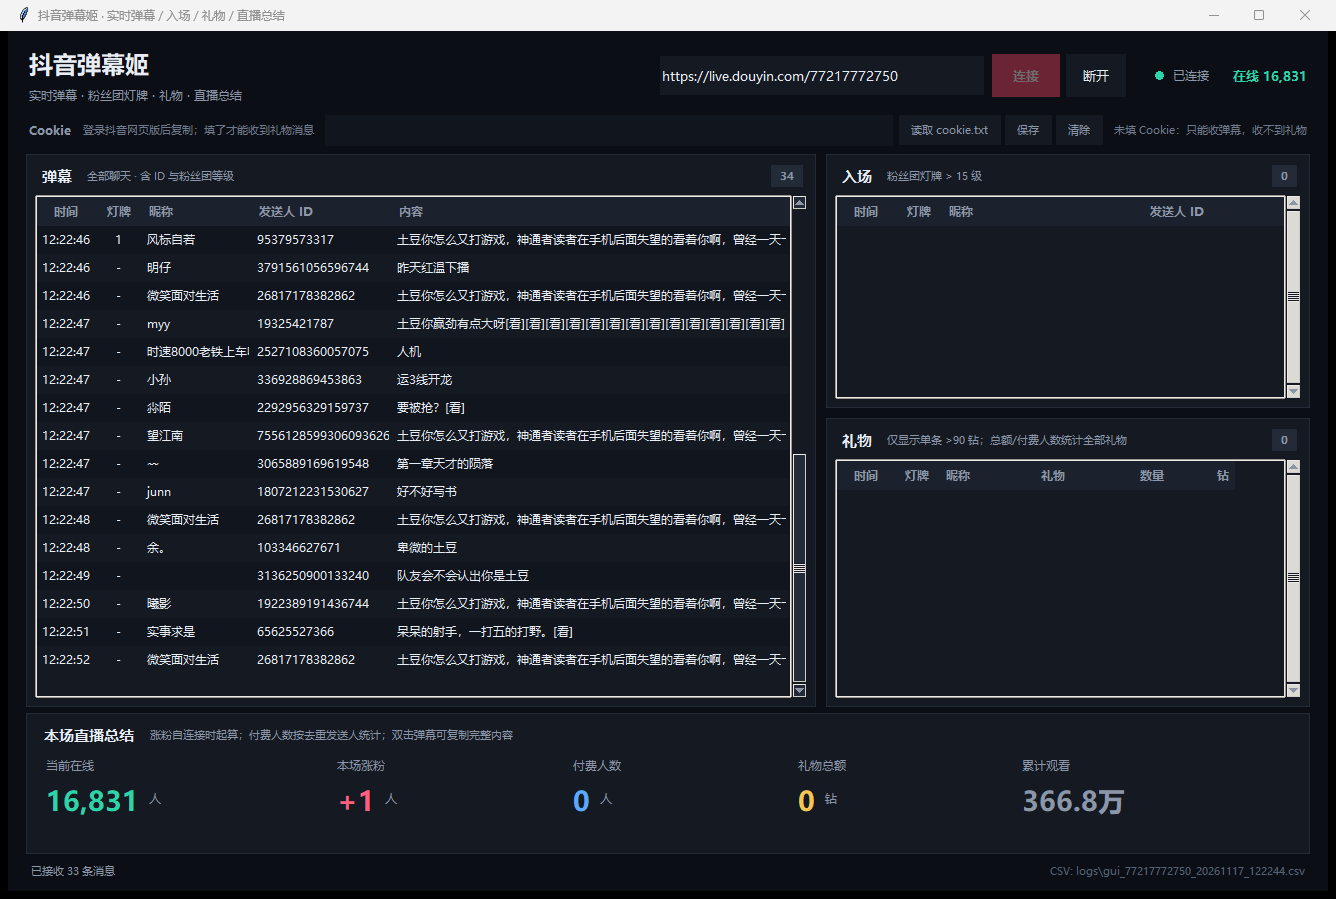
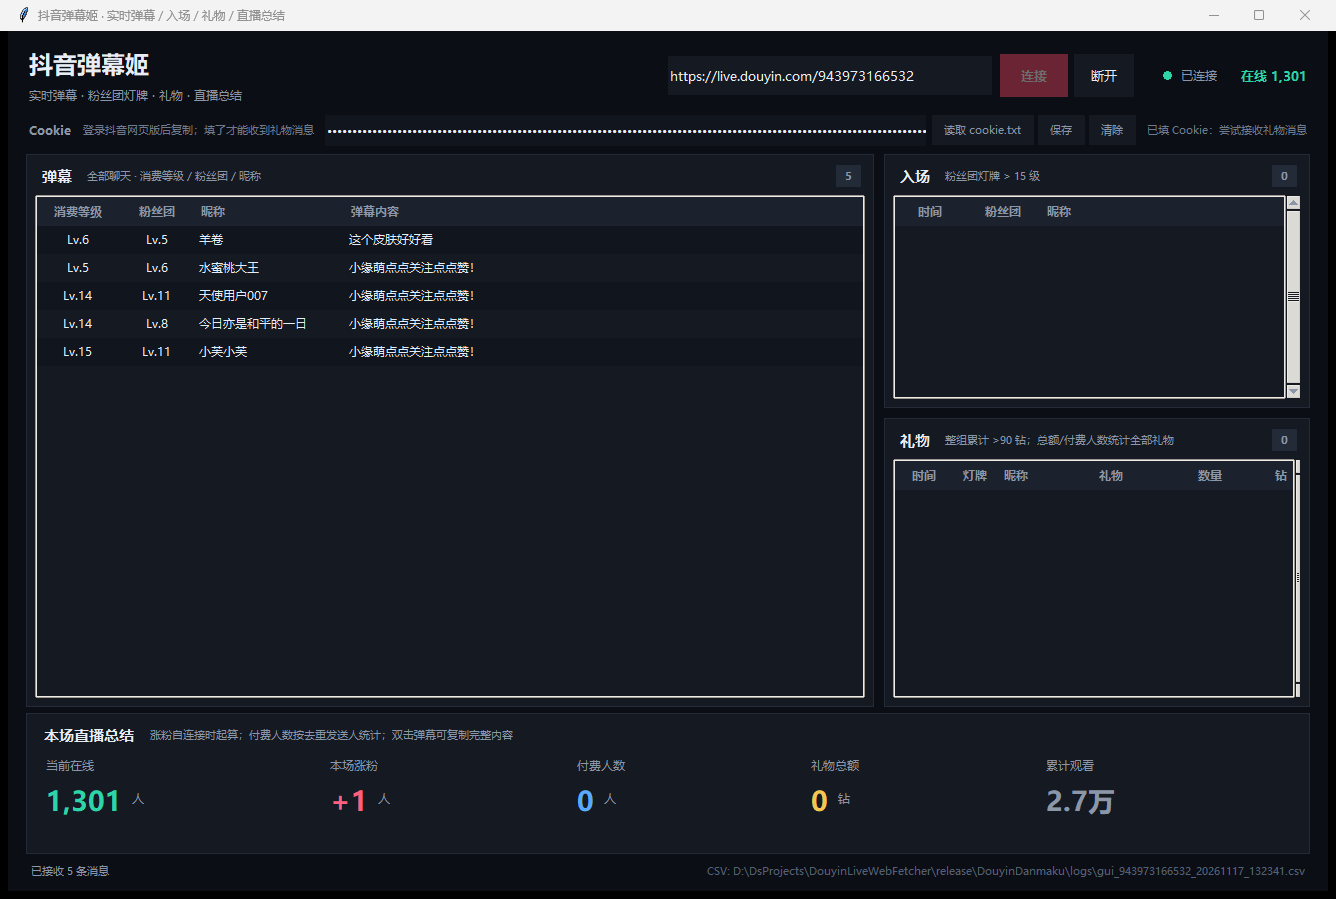
Aggregate combo gifts and match Douyin chat columns

diff --git a/danmaku_gui.py b/danmaku_gui.py
@@ -3,7 +3,7 @@
 """抖音直播弹幕姬（Tkinter 桌面窗口）。
 
 四个分区：
-1. 弹幕：全部聊天，含发送人 ID、粉丝团灯牌等级；
+1. 弹幕：全部聊天，含消费等级、粉丝团灯牌等级、昵称、内容；
 2. 入场：只看粉丝团灯牌 > 15 级的进场；
 3. 礼物：只显示单条总价值 > 90 钻（9 元）的礼物；
 4. 直播总结：当前在线、本场涨粉、付费人数、礼物总额、累计观看。
@@ -89,6 +89,8 @@ class DanmakuClient(DouyinLiveWebFetcher):
         self._stop = threading.Event()
         self._seen: set[tuple[str, str]] = set()
         self._gift_repeat: dict[int, int] = {}
+        self._gift_group_total: dict[int, int] = {}
+        self._gift_group_emitted: dict[int, int] = {}
         self._followers: int | None = None
         self._follow_base: int | None = None
         self._online = 0
@@ -146,6 +148,7 @@ class DanmakuClient(DouyinLiveWebFetcher):
                 "user_id",
                 "nickname",
                 "fans_club_level",
+                "pay_level",
                 "content",
                 "gift_name",
                 "gift_count",
@@ -195,6 +198,7 @@ class DanmakuClient(DouyinLiveWebFetcher):
                     data.get("user_id", ""),
                     data.get("nickname", ""),
                     data.get("fans_club_level", ""),
+                    data.get("pay_level", ""),
                     data.get("content", ""),
                     data.get("gift_name", ""),
                     data.get("gift_count", ""),
@@ -298,6 +302,7 @@ class DanmakuClient(DouyinLiveWebFetcher):
             return
         club = user.fans_club.data if user.fans_club else None
         level = int(club.level or 0) if club else 0
+        pay_level = int(user.pay_grade.level or 0) if user.pay_grade else 0
         content = (message.content or "").replace("\n", " ").strip()
         if not content:
             return
@@ -307,6 +312,7 @@ class DanmakuClient(DouyinLiveWebFetcher):
             user_id=str(user.id),
             nickname=user.nick_name,
             fans_club_level=level,
+            pay_level=pay_level,
             content=content,
         )
         self._emit("chat", **data)
@@ -323,12 +329,14 @@ class DanmakuClient(DouyinLiveWebFetcher):
             return
         club = user.fans_club.data if user.fans_club else None
         level = int(club.level or 0) if club else 0
+        pay_level = int(user.pay_grade.level or 0) if user.pay_grade else 0
         content = (message.default_content or "[表情]").replace("\n", " ").strip()
         data = dict(
             msg_id=msg_id,
             user_id=str(user.id),
             nickname=user.nick_name,
             fans_club_level=level,
+            pay_level=pay_level,
             content=content,
         )
         self._msg_count += 1
@@ -343,6 +351,7 @@ class DanmakuClient(DouyinLiveWebFetcher):
             return
         club = user.fans_club.data if user.fans_club else None
         level = int(club.level or 0) if club else 0
+        pay_level = int(user.pay_grade.level or 0) if user.pay_grade else 0
         # 第二个分区只关心 >15 级粉丝团灯牌
         if level <= 15:
             return
@@ -354,6 +363,7 @@ class DanmakuClient(DouyinLiveWebFetcher):
             user_id=str(user.id),
             nickname=user.nick_name,
             fans_club_level=level,
+            pay_level=pay_level,
             content="进入直播间",
         )
         self._emit("entry", **data)
@@ -429,32 +439,49 @@ class DanmakuClient(DouyinLiveWebFetcher):
         if not self._once("gift", msg_id):
             return
         count = self._gift_delta(message)
-        if count <= 0:
+        group_total = (
+            self._gift_group_total.get(group, 0) + count if group else count
+        )
+        if group:
+            self._gift_group_total[group] = group_total
+        if count <= 0 and group_total <= 0:
             return
 
         club = user.fans_club.data if user.fans_club else None
         level = int(club.level or 0) if club else 0
+        pay_level = int(user.pay_grade.level or 0) if user.pay_grade else 0
         diamonds = unit * count
+        total_diamonds = unit * group_total
         uid = str(user.id)
-        self._payers.add(uid)
-        if level > 0:
-            self._fan_payers.add(uid)
+        if count > 0:
+            self._payers.add(uid)
+            if level > 0:
+                self._fan_payers.add(uid)
         self._gift_diamonds += diamonds
         self._msg_count += 1
 
-        if diamonds > 90:
+        # 连击的 repeat_count 是累计值：界面按整组累计总价判断，
+        # 例如 100 个 1 钻小心心，不应被拆成 10 个 10 钻而过滤掉。
+        already = self._gift_group_emitted.get(group, -1) if group else -1
+        if total_diamonds > 90 and group_total != already:
+            self._gift_group_emitted[group] = group_total if group else total_diamonds
             data = dict(
                 msg_id=msg_id,
                 user_id=uid,
                 nickname=user.nick_name,
                 fans_club_level=level,
+                pay_level=pay_level,
                 content=gift.name,
                 gift_name=gift.name,
-                gift_count=count,
-                diamonds=diamonds,
+                gift_count=group_total,
+                diamonds=total_diamonds,
+                group_key=str(group) if group else msg_id,
             )
             self._emit("gift", **data)
             self._write_csv("gift", **data)
+        if message.repeat_end and group:
+            self._gift_group_total.pop(group, None)
+            self._gift_group_emitted.pop(group, None)
         self._emit_summary()
 
     def _parseSocialMsg(self, payload):
@@ -512,6 +539,7 @@ class DanmakuApp:
         self.chat_count = 0
         self.entry_count = 0
         self.gift_count = 0
+        self.gift_rows: dict[str, str] = {}
 
         self._setup_style()
         self._build_topbar()
@@ -800,17 +828,16 @@ class DanmakuApp:
         body.grid_rowconfigure(1, weight=2)
 
         self.chat_card, chat_body, self.chat_badge = self._make_card(
-            body, "弹幕", "全部聊天 · 含 ID 与粉丝团等级"
+            body, "弹幕", "全部聊天 · 消费等级 / 粉丝团 / 昵称"
         )
         self.chat_card.grid(row=0, column=0, rowspan=2, sticky="nsew", padx=(0, 10))
         self.chat_tree = self._make_tree(
             chat_body,
             [
-                ("time", "时间", 58, "center", False),
-                ("level", "灯牌", 48, "center", False),
-                ("nick", "昵称", 110, "w", False),
-                ("uid", "发送人 ID", 140, "w", False),
-                ("content", "内容", 300, "w", True),
+                ("pay", "消费等级", 82, "center", False),
+                ("level", "粉丝团", 76, "center", False),
+                ("nick", "昵称", 150, "w", False),
+                ("content", "弹幕内容", 520, "w", True),
             ],
         )
         self.chat_tree.tag_configure("odd", background=CARD)
@@ -825,17 +852,16 @@ class DanmakuApp:
         self.entry_tree = self._make_tree(
             entry_body,
             [
-                ("time", "时间", 58, "center", False),
-                ("level", "灯牌", 48, "center", False),
-                ("nick", "昵称", 120, "w", True),
-                ("uid", "发送人 ID", 140, "w", False),
+                ("time", "时间", 70, "center", False),
+                ("level", "粉丝团", 76, "center", False),
+                ("nick", "昵称", 220, "w", True),
             ],
         )
         self.entry_tree.tag_configure("odd", background=CARD)
         self.entry_tree.tag_configure("even", background=CARD_ALT)
 
         self.gift_card, gift_body, self.gift_badge = self._make_card(
-            body, "礼物", "仅显示单条 >90 钻；总额/付费人数统计全部礼物"
+            body, "礼物", "整组累计 >90 钻；总额/付费人数统计全部礼物"
         )
         self.gift_card.grid(row=1, column=1, sticky="nsew")
         self.gift_tree = self._make_tree(
@@ -1037,6 +1063,7 @@ class DanmakuApp:
             for item in tree.get_children():
                 tree.delete(item)
         self.chat_count = self.entry_count = self.gift_count = 0
+        self.gift_rows.clear()
         self.chat_badge.configure(text="0")
         self.entry_badge.configure(text="0")
         self.gift_badge.configure(text="0")
@@ -1064,16 +1091,16 @@ class DanmakuApp:
         kind = event.get("kind")
         if kind == "chat":
             level = int(event.get("fans_club_level") or 0)
+            pay_level = int(event.get("pay_level") or 0)
             tags = ("odd" if self.chat_count % 2 else "even",)
             if level >= 15:
                 tags = tags + ("vip",)
             self._insert(
                 self.chat_tree,
                 (
-                    event.get("ts", ""),
-                    level or "-",
+                    f"Lv.{pay_level}" if pay_level else "-",
+                    f"Lv.{level}" if level else "-",
                     event.get("nickname", ""),
-                    event.get("user_id", ""),
                     event.get("content", ""),
                 ),
                 tags,
@@ -1082,13 +1109,13 @@ class DanmakuApp:
             self.chat_count += 1
             self.chat_badge.configure(text=fmt_int(self.chat_count))
         elif kind == "entry":
+            level = int(event.get("fans_club_level") or 0)
             self._insert(
                 self.entry_tree,
                 (
                     event.get("ts", ""),
-                    event.get("fans_club_level", ""),
+                    f"Lv.{level}" if level else "-",
                     event.get("nickname", ""),
-                    event.get("user_id", ""),
                 ),
                 ("odd" if self.entry_count % 2 else "even",),
                 300,
@@ -1096,21 +1123,30 @@ class DanmakuApp:
             self.entry_count += 1
             self.entry_badge.configure(text=fmt_int(self.entry_count))
         elif kind == "gift":
-            self._insert(
-                self.gift_tree,
-                (
-                    event.get("ts", ""),
-                    event.get("fans_club_level", ""),
-                    event.get("nickname", ""),
-                    event.get("gift_name", ""),
-                    f"x{event.get('gift_count', 1)}",
-                    fmt_int(event.get("diamonds", 0)),
-                ),
-                ("odd" if self.gift_count % 2 else "even",),
-                300,
+            key = str(event.get("group_key") or event.get("msg_id") or "")
+            values = (
+                event.get("ts", ""),
+                event.get("fans_club_level", ""),
+                event.get("nickname", ""),
+                event.get("gift_name", ""),
+                f"x{event.get('gift_count', 1)}",
+                fmt_int(event.get("diamonds", 0)),
             )
-            self.gift_count += 1
-            self.gift_badge.configure(text=fmt_int(self.gift_count))
+            existing = self.gift_rows.get(key)
+            if existing and self.gift_tree.exists(existing):
+                self.gift_tree.item(existing, values=values)
+                self.gift_tree.move(existing, "", "end")
+            else:
+                iid = self._insert(
+                    self.gift_tree,
+                    values,
+                    ("odd" if self.gift_count % 2 else "even",),
+                    300,
+                )
+                if key:
+                    self.gift_rows[key] = iid
+                self.gift_count += 1
+                self.gift_badge.configure(text=fmt_int(self.gift_count))
         elif kind == "summary":
             online = event.get("online")
             if online:
@@ -1162,17 +1198,17 @@ class DanmakuApp:
         if not item:
             return
         values = self.chat_tree.item(item, "values")
-        if len(values) < 5:
+        if len(values) < 4:
             return
         try:
             self.root.clipboard_clear()
-            self.root.clipboard_append(str(values[4]))
+            self.root.clipboard_append(str(values[3]))
             self.hint_var.set("已复制完整弹幕内容")
         except Exception:
             pass
 
     def _insert(self, tree, values, tags, limit):
-        tree.insert("", "end", values=values, tags=tags)
+        iid = tree.insert("", "end", values=values, tags=tags)
         children = tree.get_children()
         if len(children) > limit:
             for item in children[: len(children) - limit]:
@@ -1180,6 +1216,7 @@ class DanmakuApp:
         children = tree.get_children()
         if children:
             tree.see(children[-1])
+        return iid
 
     def _set_status(self, text, color):
         self.status_var.set(text)

diff --git a/README_GUI.md b/README_GUI.md
@@ -2,9 +2,9 @@
 
 一个 Windows 桌面窗口，实时采集抖音直播间：
 
-- **弹幕**：全部聊天，显示时间、粉丝团灯牌等级、昵称、发送人 ID、内容；
+- **弹幕**：全部聊天，按「消费等级、粉丝团等级、昵称、弹幕内容」展示；
 - **入场**：只显示粉丝团灯牌 **> 15 级** 的进入直播间消息；
-- **礼物**：只显示单条总价值 **> 90 钻（9 元）** 的礼物，按「单价 × 本次数量」计算，连击按增量累计；下方的「礼物总额 / 付费人数」统计**所有**礼物，不受 90 钻门槛影响；
+- **礼物**：只显示整组累计总价值 **> 90 钻（9 元）** 的礼物，按「单价 × 本次数量」计算，连击按组内累计；下方的「礼物总额 / 付费人数」统计**所有**礼物，不受 90 钻门槛影响；
 - **本场直播总结**：当前在线、本场涨粉、付费人数、礼物总额、累计观看。
 
 ## 启动
